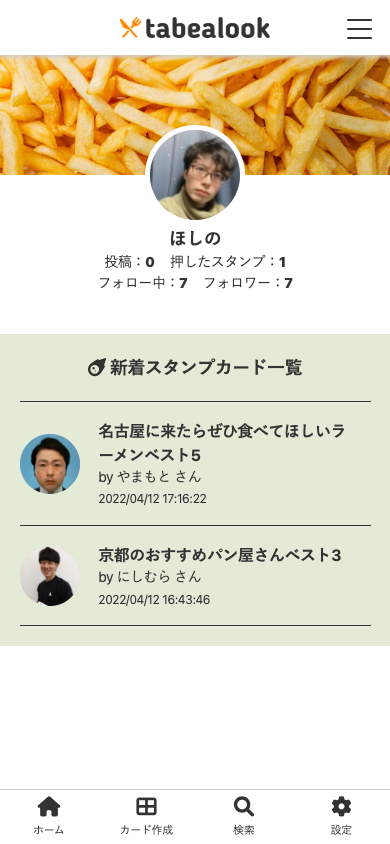
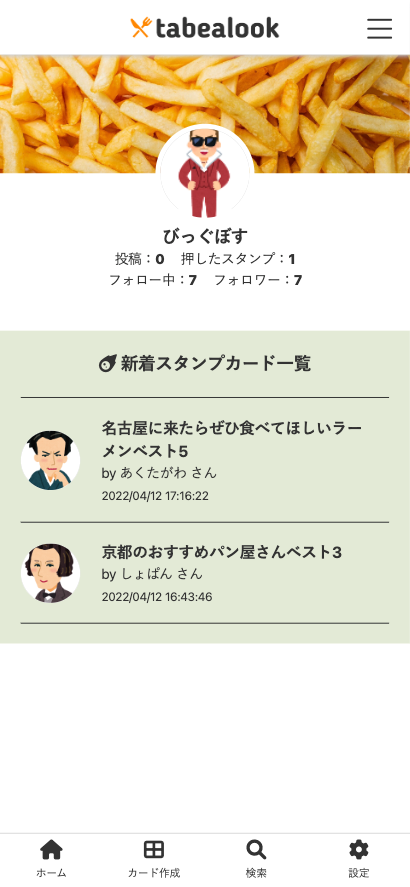
スクリーンショット差し替え・アバター表示修正

diff --git a/app/assets/stylesheets/cards/index.css b/app/assets/stylesheets/cards/index.css
@@ -45,6 +45,7 @@ profileHeader
 .header-avatar img {
   width: 100%;
   height: 100%;
+  background: #fff;
   object-fit: cover;
   border-radius: 50px;
 }
@@ -125,6 +126,9 @@ newArrival
 }
 .cards-list li .user-avatar img {
   width: 100%;
+  height: 100%;
+  object-fit: cover;
+  background: #fff;
   border-radius: 50px;
 }
 .cards-list li dl .card-text {
